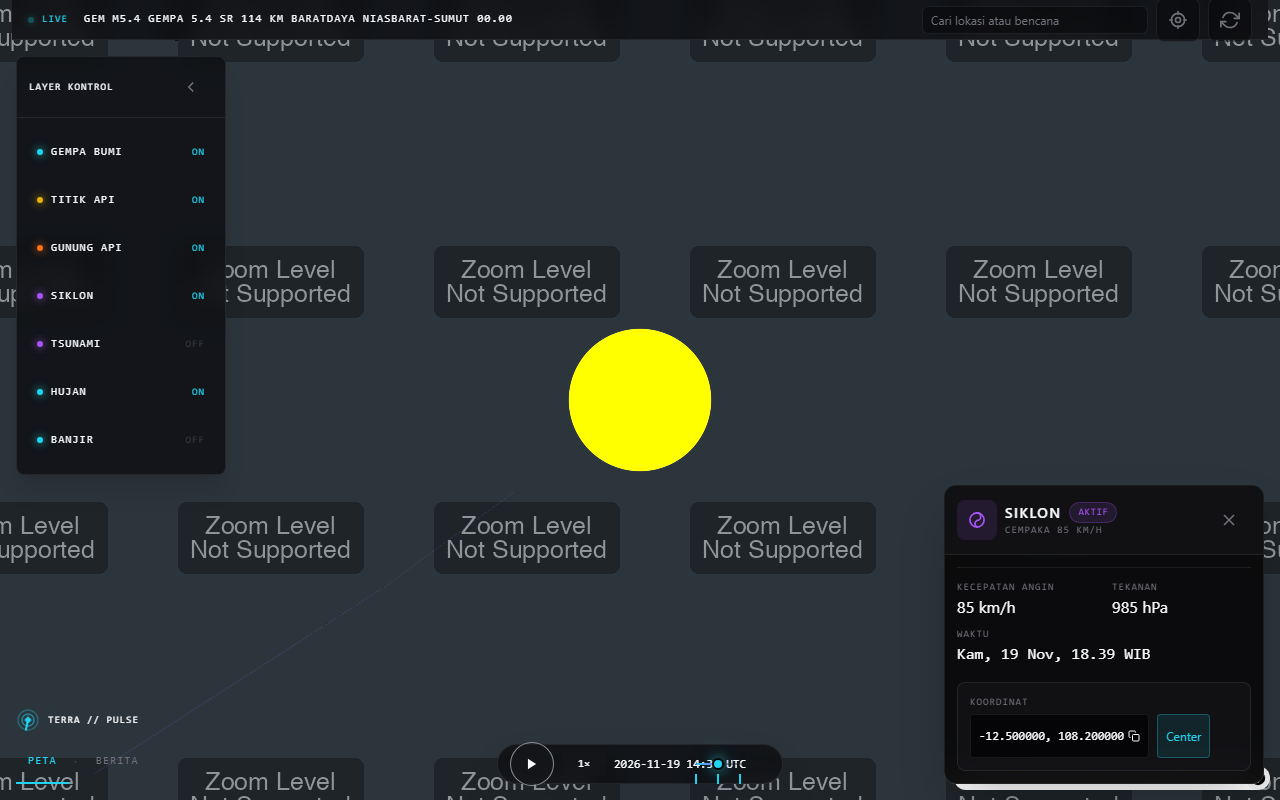
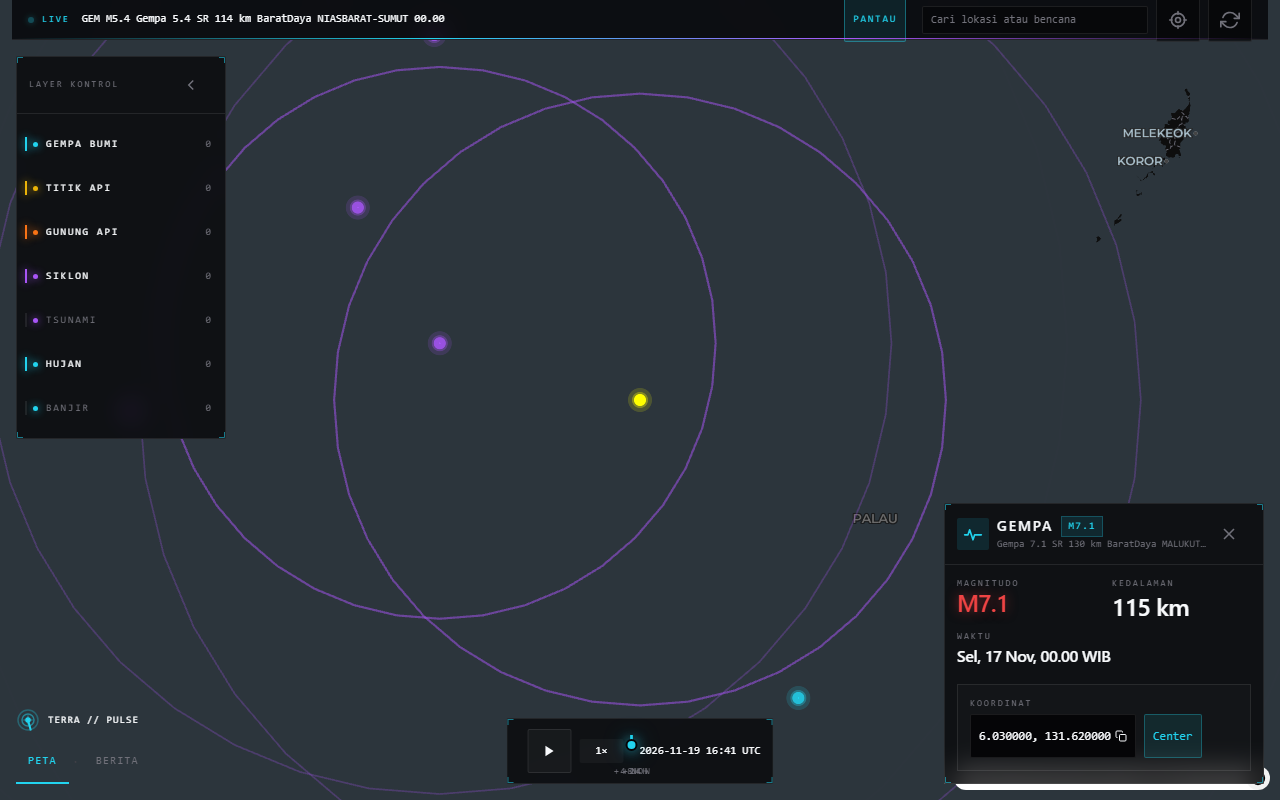
docs(design): refresh HUD audit for hairline HUD, WebGL animation and lock-on

diff --git a/docs/design/RESPONSIVE-AUDIT.md b/docs/design/RESPONSIVE-AUDIT.md
@@ -13,11 +13,12 @@ node scripts/audit-hud.mjs --shots  # screenshots only
 Viewports: 375x812, 768x1024, 1024x768, 1280x800, 1440x900 (mobile breakpoint = `width < 768`,
 matching `useDeviceCapability`). Console messages are truncated to their first line by design;
 measured values below are copied verbatim from the run that produced the three screenshots.
+Measurement date: **2026-11-19**, at `55e302b`.
 
 **Overall result: all PASS.** C6, C7, C8 and BERITA reachability pass at all five viewports; the map
 renders full-viewport everywhere; the EventCard opens everywhere; and a production load produces
-**0 console errors, 0 pageerrors and 0 failed requests** at every viewport. The only remaining
-console output is a deck.gl deprecation warning (§9).
+**0 console errors, 0 pageerrors and 0 failed requests** at every viewport. No console output remains
+from the app or its map libraries (§9).
 
 ---
 
@@ -25,10 +26,10 @@ console output is a deck.gl deprecation warning (§9).
 
 | Gate | Command | Result |
 | --- | --- | --- |
-| Build | `npm run build` | **PASS** — exit 0, 71.6s, page 459 kB / 564 kB First Load |
-| Unit tests | `npm run test:unit` | **PASS** — 4 files, 14 tests (vitest 3.2.7), 8.76s |
+| Build | `npm run build` | **PASS** — exit 0, 89s, `✓ Compiled successfully`, 9/9 static pages, page 461 kB / 566 kB First Load, 105 kB shared |
+| Unit tests | `npm run test:unit` | **PASS** — 4 files, 14 tests (vitest 3.2.7), 11.7s |
 | Types | `npx tsc --noEmit` | **PASS** — exit 0 |
-| E2E | `npx playwright test tests/app.spec.ts` | **PASS** — 6 passed, 3 skipped (44.9s), exit 0 |
+| E2E | `npx playwright test tests/app.spec.ts` | **PASS** — 6 passed, 3 skipped (49.1s), exit 0 |
 
 The E2E gate ran against the same production server on port 3001 (`playwright.config.ts`
 `baseURL: http://localhost:3001`, `webServer: undefined`).
@@ -39,19 +40,19 @@ The E2E gate ran against the same production server on port 3001 (`playwright.co
 
 | viewport | lockup | timeline pill | layer control | telemetry strip | mobile news toggle | news panel (BERITA) |
 | --- | --- | --- | --- | --- | --- | --- |
-| 375x812 | not rendered (hidden <768) | 44.5,772 286x40 | 16,56 112x44 (trigger) | 12,0 351x44 | 270,56 89x44 | 0,243.6 375x568.4 |
-| 768x1024 | 16,932 134.6x76 | 241,968 286x40 | 16,56 210x419 | 12,0 744x40 | n/a (`md:hidden`) | 432,316 320x692 |
-| 1024x768 | 16,676 134.6x76 | 369,712 286x40 | 16,56 210x419 | 12,0 1000x40 | n/a (`md:hidden`) | 688,214.4 320x537.6 |
-| 1280x800 | 16,708 134.6x76 | 497,744 286x40 | 16,56 210x419 | 12,0 1256x40 | n/a (`md:hidden`) | 944,224 320x560 |
-| 1440x900 | 16,808 134.6x76 | 577,844 286x40 | 16,56 210x419 | 32,0 1376x40 | n/a (`md:hidden`) | 1104,254 320x630 |
+| 375x812 | not rendered (hidden <768) | 54,746 267x66 | 16,56 100x44 (trigger) | 12,0 351x44 | 270,56 89x44 | 0,243.6 375x568.4 |
+| 768x1024 | 16,932 134.6x76 | 250.5,942 267x66 | 16,56 210x383 | 12,0 744x40 | n/a (`md:hidden`) | 432,332.3 320x675.8 |
+| 1024x768 | 16,676 134.6x76 | 378.5,686 267x66 | 16,56 210x383 | 12,0 1000x40 | n/a (`md:hidden`) | 688,214.4 320x537.6 |
+| 1280x800 | 16,708 134.6x76 | 506.5,718 267x66 | 16,56 210x383 | 12,0 1256x40 | n/a (`md:hidden`) | 944,224 320x560 |
+| 1440x900 | 16,808 134.6x76 | 586.5,818 267x66 | 16,56 210x383 | 32,0 1376x40 | n/a (`md:hidden`) | 1104,254 320x630 |
 
-Observations: the timeline pill is always 286x40 and horizontally centred (44.5/241/369/497/577 at the
-five viewports, i.e. `(vw-286)/2`), sitting 0px above the viewport bottom; the layer panel is a fixed
-210x419 side panel at `top-14 left-4` on desktop and a 112x44 trigger on mobile; the telemetry strip
-spans the viewport width minus a 12px gutter (32px at 1440) and is 40–44px tall. The EventCard clears
-the pill at every viewport: at 375/768/1024 its bottom edge (756/956/700) sits above the pill top
-(772/968/712); at 1280/1440 it is anchored to the right (`bottom-[68px] xl:bottom-4`) and its
-x-range (944–1264 / 1104–1424) does not intersect the centred pill (497–783 / 577–863).
+Observations: the timeline pill is **267x66** — the 40px track plus a separate marker-label row above it
+(`py-1.5` shell, label absolutely positioned at `bottom-full`), not the older 286x40 single row. It is
+horizontally centred at 54/250.5/378.5/506.5/586.5, i.e. `(vw-267)/2`, with tops at
+746/942/686/718/818. The layer panel is a fixed 210x383 side panel at `top-14 left-4` on desktop and a
+100x44 trigger on mobile. The telemetry strip spans the viewport width minus a 12px gutter (32px at
+1440) and is 40–44px tall; it now carries the PANTAU lock-on button and a 1px alert pulse line, and the
+LIVE wordmark is hidden below `md`. The EventCard clears the pill at every viewport (§4).
 
 ## 3. Map sizing
 
@@ -64,10 +65,10 @@ x-range (944–1264 / 1104–1424) does not intersect the centred pill (497–78
 | 1440x900 | 0,0 1440x900 | 0,0 1440x900 |
 
 Canvas == container == viewport at every size (previously `0,0 <vw>x300` with a 0-height container).
-An independent canvas probe at 1280x800 reads `buffer [1280,800]`, 12913 bright pixels (radar raster
-and markers), and the marker clustering used to open cards finds its largest cluster at n=167, CSS
-`325,724`. The rain-radar layer paints: 40 of 40 `tilecache.rainviewer.com/v2/radar/<frame>/256/{z}/{x}/{y}/2/1_1.png`
-requests return 200, 0 non-200. The map renders, tiles load, and deck.gl markers are pickable.
+An independent canvas probe at 1280x800 reads `buffer [1280,800]`, and the marker clustering used to
+open cards finds its largest cluster at n=107, CSS `444,185`. The rain-radar layer paints: 40 of 40
+`tilecache.rainviewer.com/v2/radar/<frame>/256/{z}/{x}/{y}/2/1_1.png` requests return 200, 0 non-200.
+The map renders, tiles load, and deck.gl markers are pickable.
 
 ## 4. Overlap assertions (spec C8)
 
@@ -77,15 +78,20 @@ Method: rectangle-intersection of the measured boxes (`area > 0.5px²` counts as
 | --- | --- | --- | --- | --- | --- |
 | lockup vs timeline | N/A | PASS | PASS | PASS | PASS |
 | lockup vs EventCard | N/A | PASS | PASS | PASS | PASS |
-| timeline vs EventCard | PASS | PASS | PASS | PASS | PASS |
+| timeline vs EventCard | PASS (14px clear) | PASS (6px clear) | PASS (6px clear) | PASS (x-disjoint) | PASS (x-disjoint) |
 | NewsPanel vs timeline (live BERITA rects) | N/A | N/A | N/A | N/A | N/A |
-| NewsPanel vs timeline pill using the *PETA-mode* rect (cross-mode reference) | 11440px² | 3800px² | PASS | PASS | PASS |
+| NewsPanel vs timeline pill using the *PETA-mode* rect (cross-mode reference, not reachable live) | 17622px² | 5643px² | PASS | PASS | PASS |
 
-**No live overlap at any viewport.** `timeline vs EventCard` now clears everywhere: at 375/768/1024 the
-card's bottom edge is above the pill's top edge (756 vs 772, 956 vs 968, 700 vs 712), and at
-1280/1440 the card is right-anchored (`bottom-[68px] xl:bottom-4`) with an x-range that misses the
-centred pill entirely. Before the HUD fix (`46ceaee`) the 768x1024 pair intersected by 3800px² and the
-pill painted over the card's bottom 40px, intercepting clicks; that no longer reproduces.
+**0 live overlaps at all five viewports.** `timeline vs EventCard` clears everywhere: the card's bottom
+edge sits above the pill's top edge by 14px at 375x812 (732 vs 746), 6px at 768x1024 (936 vs 942) and
+6px at 1024x768 (680 vs 686); at 1280/1440 the card is right-anchored and its x-range misses the
+centred pill entirely. The anchors that produce this are `bottom-[calc(env(safe-area-inset-bottom)+80px)]`
+on mobile, `bottom-[88px]` on desktop and `xl:bottom-4` at 1280 and up.
+
+Before `55e302b` the retuned pill (`267x66`, replacing the older `286x40`) intersected the card by
+2670px² at 375x812 (10px) and 1197px² at 768x1024 (14px), and `elementFromPoint` at the overlap
+returned the timeline bar, so the pill painted over the card's bottom edge and swallowed clicks there.
+Both pairs now measure 0.
 
 **Cross-mode note.** The `NewsPanel vs timeline (PETA rect)` row compares a rect measured in BERITA
 mode with one measured in PETA mode. It cannot occur live: in BERITA mode `#panel-peta` carries
@@ -108,10 +114,12 @@ Map-library controls are excluded by design.
 | 1280x800 | 0 |
 | 1440x900 | 0 |
 
-16 visible interactive elements at 1280x800, all ≥44px in both axes: telemetry ticker `826x44`,
-timeline `<select>` and buttons `44x44`, layer-panel collapse `44x44`, layer rows `184x44`, brand
-buttons `52.6x44` / `66.9x44`. The previously reported 20.5px ticker, 28px search input and 21x20.5
-speed select no longer reproduce — the `tp-touch` sizing is applied to the interactive element itself.
+16 visible interactive elements at 1280x800, all ≥44px in both axes: telemetry ticker 44px tall
+(`min-h-[44px]`), timeline `<select>` and buttons `44x44`, layer-panel collapse `44x44`, layer rows
+`184x44`, brand buttons `52.6x44` / `66.9x44`. The ticker now also carries `min-w-[44px]`, so the
+PANTAU button can no longer squeeze it: it measured 27.5x44 at 375x812 before `55e302b` and 44x44
+after. The previously reported 20.5px ticker, 28px search input and 21x20.5 speed select still do not
+reproduce — the `tp-touch` sizing is applied to the interactive element itself.
 
 ## 6. Numeric readouts (spec C6) — **PASS**
 
@@ -123,30 +131,31 @@ speed select no longer reproduce — the `tp-touch` sizing is applied to the int
 | timeline clock (`.tp-value`) | ok | ok | ok | ok | ok |
 | timeline speed `<select>` | ok | ok | ok | ok | ok |
 | news panel relative time | ok | ok | ok | ok | ok |
-| EventCard MAGNITUDO | ok | n/a (not in this card) | n/a | n/a | n/a |
-| EventCard KEDALAMAN | ok | n/a | n/a | n/a | n/a |
+| EventCard MAGNITUDO | ok | ok | ok | ok | ok |
+| EventCard KEDALAMAN | ok | ok | ok | ok | ok |
 | EventCard WAKTU | ok | ok | ok | ok | ok |
 | EventCard KOORDINAT value | ok | ok | ok | ok | ok |
 | EventCard coord copy button | ok | ok | ok | ok | ok |
 
-0 readouts failing. The earlier hypothesis that the KOORDINAT value lacks `tabular-nums` is **wrong**
-for this build: the card shell carries `tabular-nums` and both the value and the copy button compute
-`tabular-nums`. `n/a` rows are conditional card sections (magnitude/depth only render for earthquake
-features; the 768+ cards opened on a cyclone feature).
+0 readouts failing — 9 readouts × 5 viewports, all `ok`. The earlier hypothesis that the KOORDINAT
+value lacks `tabular-nums` is **wrong** for this build: the card shell carries `tabular-nums` and both
+the value and the copy button compute `tabular-nums`. MAGNITUDO/KEDALAMAN are conditional sections
+(earthquake features only); this run opened an earthquake card at every viewport, so all nine readouts
+were present everywhere.
 
 ## 7. EventCard
 
 | viewport | opened | how | rect |
 | --- | --- | --- | --- |
-| 375x812 | yes | marker pixel scan (208,403 n=33) | 0,616 375x140 |
-| 768x1024 | yes | marker pixel scan (69,836 n=167) | 432,657 320x299 |
-| 1024x768 | yes | marker pixel scan (197,708 n=167) | 688,401 320x299 |
-| 1280x800 | yes | marker pixel scan (325,724 n=167) | 944,485 320x299 |
-| 1440x900 | yes | marker pixel scan (405,774 n=167) | 1104,585 320x299 |
+| 375x812 | yes | marker pixel scan (269,61 n=50) | 0,592 375x140 |
+| 768x1024 | yes | marker pixel scan (731,238 n=63) | 432,654.5 320x281.5 |
+| 1024x768 | yes | marker pixel scan (914,45 n=62) | 688,398.5 320x281.5 |
+| 1280x800 | yes | marker pixel scan (1027,90 n=74) | 944,502.5 320x281.5 |
+| 1440x900 | yes | marker pixel scan (1110,141 n=67) | 1104,602.5 320x281.5 |
 
-Opened at all five viewports on the first candidate. Content at 1280x800: title `SIKLON` / `AKTIF` /
-`Cempaka 85 km/h`, then `KECEPATAN ANGIN 85 km/h`, `TEKANAN 985 hPa`,
-`WAKTU Kam, 19 Nov, 17.41 WIB`, `KOORDINAT -1.471529, 118.168`.
+Opened at all five viewports. Content at 1280x800: title `GEMPA M5.5` / `Gempa 5.5 SR 169 km
+BaratLaut TANIMBAR`, then `MAGNITUDO M5.5`, `KEDALAMAN 130 km`, `WAKTU Sen, 02 Nov, 00.00 WIB`,
+`KOORDINAT 7.080000, …`.
 
 The harness finds markers by scanning the map canvas for bright pixels and clustering them
 (`markerCandidates`), then clicking each centroid until `[aria-label="Tutup detail"]` has a non-zero
@@ -157,11 +166,11 @@ Web-Mercator projection, which assumed a fixed initial viewport and broke on any
 
 | viewport | toggle clicked | panel rect | close button ≥44 | rows (first 3) | `#panel-peta` while BERITA | timeline while BERITA | back to PETA |
 | --- | --- | --- | --- | --- | --- | --- | --- |
-| 375x812 | yes | 0,243.6 375x568.4 | yes | 329x125 ×3 | `hidden` / `display:none` | not rendered | true |
-| 768x1024 | yes | 432,316 320x692 | yes | 274x125 ×3 | `hidden` / `display:none` | not rendered | true |
-| 1024x768 | yes | 688,214.4 320x537.6 | yes | 274x125 ×3 | `hidden` / `display:none` | not rendered | true |
-| 1280x800 | yes | 944,224 320x560 | yes | 274x125 ×3 | `hidden` / `display:none` | not rendered | true |
-| 1440x900 | yes | 1104,254 320x630 | yes | 274x125 ×3 | `hidden` / `display:none` | not rendered | true |
+| 375x812 | yes | 0,243.6 375x568.4 | yes | 329x122 ×3 | `hidden` / `display:none` | not rendered | true |
+| 768x1024 | yes | 432,332.3 320x675.8 | yes | 274x122 ×3 | `hidden` / `display:none` | not rendered | true |
+| 1024x768 | yes | 688,214.4 320x537.6 | yes | 274x122 ×3 | `hidden` / `display:none` | not rendered | true |
+| 1280x800 | yes | 944,224 320x560 | yes | 274x122 ×3 | `hidden` / `display:none` | not rendered | true |
+| 1440x900 | yes | 1104,254 320x630 | yes | 274x122 ×3 | `hidden` / `display:none` | not rendered | true |
 
 PASS at all five viewports: the toggle opens the panel, rows and the close button are ≥44px, PETA is
 hidden while BERITA is open, and closing returns to PETA.
@@ -182,46 +191,77 @@ failures**. The three problems of the previous pass are gone:
   `map.queryRenderedFeatures(e.point, { layers: [...] })` call is now guarded against layers that are
   not yet in the style.
 
-The only remaining console output is one deck.gl deprecation **warning** (not an error):
-`deck: 'earthquake-crosshairs: rounded' is deprecated and will be removed in a later version. Use
-'jointRounded/capRounded' instead` — `src/components/map/DisasterLayers.tsx:212` passes `rounded: true`
-to a `PathLayer`; migrate to `capRounded`/`jointRounded` when convenient. Chromium also logs its own
-`GPU stall due to ReadPixels` performance warnings under headless screenshots; those come from the
-browser, not the app.
+**No console output remains from the app or its map libraries.** The deck.gl
+`earthquake-crosshairs: rounded` deprecation warning is gone: the crosshair and path layers now pass
+`capRounded: true, jointRounded: true` instead of `rounded: true`
+(`src/components/map/DisasterLayers.tsx:213,441,621`). Chromium still logs its own
+`GPU stall due to ReadPixels` performance warnings under headless screenshot capture; those come from
+the browser, not the app, and do not appear in a normal load.
 
-## 10. Screenshots
+## 10. WebGL animation
+
+Map animation runs outside React: `MapCanvas` drives one RAF loop that calls `applyLayers()` →
+`overlay.setProps()`, so no component re-renders per frame. The loop is throttled to ~24fps
+(`if (now - last < 41) return`), is cancelled on `visibilitychange` while `document.hidden` and
+restarted on return, and under `prefers-reduced-motion: reduce` (`useDeviceCapability` reads
+`matchMedia('(prefers-reduced-motion: reduce)')`) it early-returns after a single `applyLayers()` with
+every layer frozen at `time = 0` (`DisasterLayers` `frozen` pins opacity; `WindParticleLayer` takes a
+static path).
+
+Four animated phenomena: seismic shockwave rings (magnitude ≥ 6), a cyclogenesis vortex with a dashed
+pulsing track, thermal hotspot flicker, and a hydrological pulse gated on `pressureHpa < 1005`.
+
+Evidence — `readPixels` on `.maplibregl-canvas` at 1280x800, snapshots kept in-page, per-channel diff
+threshold `|ΔR|+|ΔG|+|ΔB| > 12`, 9s settle before sampling:
+
+| assertion | window | result |
+| --- | --- | --- |
+| animating | 1200ms | **25514/1024000 px changed (2.492%)**, max Δ 330 |
+| paused (`document.hidden`) | 1200ms | **0 px changed**, max Δ 0 |
+| resumed | 1200ms | 11981 px changed (1.17%) |
+| reduced motion | 1200ms | **0 px changed**, 13693 bright px (not blank) |
+
+The paused and reduced-motion canvases are bit-identical to their own previous frame, so the gates are
+real rather than a frame that happens to look static. Sampling has to wait for tile and radar fades to
+settle; at a 3s settle a "paused" window still shows pixel change that is not animation.
+
+## 11. Screenshots
 
 Pixel statistics are measured from the written PNG (`canvas` devDependency, luma > 8 = non-black,
 luma > 40 = bright):
 
 | file | viewport | state | non-black | bright | distinct colours | console / page errors |
 | --- | --- | --- | --- | --- | --- | --- |
-| `screenshots/stitch-desktop.png` | 1280x800 | PETA mode, full HUD | 1023819/1024000 (100%) | 739990 | 512 (cap) | 0 / 0 |
-| `screenshots/stitch-mobile.png` | 390x844, touch | BERITA drawer open (`open=true`) | 329160/329160 (100%) | 100667 | 512 (cap) | 0 / 0 |
-| `screenshots/stitch-desktop-eventcard.png` | 1280x800 | EventCard open (`open=true`) | 1017278/1024000 (99.3%) | 662091 | 385 | 0 / 0 |
+| `screenshots/final-hud-desktop.png` | 1280x800 | PETA mode, full HUD | 1011107/1024000 (98.7%) | 736744 | 737 | 0 / 0 |
+| `screenshots/final-hud-event.png` | 1280x800 | EventCard open (`944,503 320x282`), PANTAU reticle active | 1017811/1024000 (99.4%) | 805774 | 535 | 0 / 0 |
 
-None is blank and none has a console error or pageerror. The 1024-pixel shortfall on the desktop shots
-is the rounded viewport corner transparency; the mobile shot is fully opaque. Existing `*-final.png` /
-`*-v2.png` were not touched.
+Neither is blank and neither has a console error, pageerror or non-2xx response. The PANTAU reticle was
+proven by pixel diff rather than by an attribute (the button has no `aria-pressed`): with the timeline
+clock paused, clicking PANTAU changed **53310 px** of the canvas, against **0** control noise over the
+following 900ms. These two files supersede `stitch-desktop.png` and `stitch-desktop-eventcard.png`;
+`scripts/audit-hud.mjs` still rewrites the `stitch-*` set (including `stitch-mobile.png`, 390x844 BERITA
+drawer, 95.8% non-black, bright 105075).
 
-## 11. Findings
+## 12. Findings
 
 **No open findings.** Every spec assertion passes, gates pass, and a production load is error-free.
 
-1. **PASS (C8)** — no live overlap at any viewport. The 768x1024 EventCard/timeline intersection
-   (3800px², pill painting over the card's bottom 40px) is fixed by the card's
-   `bottom-[68px] xl:bottom-4` desktop anchor and the `+56px` mobile offset (§4).
+1. **PASS (C8)** — 0 live overlap at all five viewports: 14px clearance at 375x812, 6px at 768x1024 and
+   1024x768, x-disjoint at 1280/1440, from the mobile
+   `bottom-[calc(env(safe-area-inset-bottom)+80px)]` / desktop `bottom-[88px]` / `xl:bottom-4` anchors (§4).
 2. **PASS (runtime)** — 0 console errors, 0 pageerrors, 0 failed requests at all five viewports.
    Hydration `#418` is gone (mount gate in `TimelineBar`); the rain-radar 404 storm is gone (tile
    template `…/256/{z}/{x}/{y}/2/1_1.png`, newest frame first — 40/40 responses 200, raster paints);
-   the `tsunami-rings` query is guarded (§9). The only console output left is the deck.gl
-   `earthquake-crosshairs: rounded` deprecation warning, noted for a later cleanup.
-3. **Resolved (C7)** — 0 touch-target violations across 5 viewports; the 14 violations of the
-   pre-HUD-pass build (ticker 20.5px, search input 28px, speed select 21x20.5) no longer reproduce (§5).
-4. **Resolved (C6)** — 0 tabular-nums readouts failing, including the EventCard KOORDINAT value and
-   its copy button (§6).
-5. **Resolved (BERITA)** — reachable at 375x812 and every other viewport, with PETA hidden while open (§8).
-6. **Resolved (map lifecycle crash, history)** — commit `112a6a5` *"fix(map): stop map lifecycle crash
+   the `tsunami-rings` query is guarded; and the deck.gl `rounded` deprecation warning is gone (§9).
+3. **PASS (C7)** — 0 touch-target violations across 5 viewports. The retune briefly regressed this: the
+   ticker measured 27.5x44 at 375x812 once PANTAU appeared in the row. `55e302b` gives it
+   `min-w-[44px]` and hides the LIVE wordmark below `md`, and the ticker now measures 44x44 there (§5).
+4. **PASS (C6)** — 0 tabular-nums readouts failing, all 9 readouts `ok` at all 5 viewports, including the
+   EventCard KOORDINAT value and its copy button (§6).
+5. **PASS (BERITA)** — reachable at 375x812 and every other viewport, with PETA hidden while open (§8).
+6. **PASS (WebGL animation)** — animating, paused, resumed and reduced-motion behaviour all verified by
+   `readPixels` diff; paused and reduced-motion are bit-identical over a 1200ms window (§10).
+7. **Resolved (map lifecycle crash, history)** — commit `112a6a5` *"fix(map): stop map lifecycle crash
    and camera corruption"* (`112a6a53f40737210d45debfe2e01b93d938e450`, plus the LF-normalisation
    commit `33d1630`), touching `src/components/map/MapBase.tsx` and
    `src/components/map/MapCanvas.tsx`, removed the StrictMode teardown race, the camera corruption and
@@ -230,8 +270,17 @@ is the rounded viewport corner transparency; the mobile shot is fully opaque. Ex
    `Application error: a client-side exception has occurred` page, and an EventCard that could never
    open (`opened=false via=not reached` at all five viewports). Post-fix the canvas is full-viewport at
    every size and the card opens at every size (§3, §7).
-7. **Fix lineage** — `112a6a5` map lifecycle / camera / overlay / picking; `47be0ea` *"fix(map): repair
+8. **Fix lineage** — `112a6a5` map lifecycle / camera / overlay / picking; `47be0ea` *"fix(map): repair
    RainViewer tile URL and guard tsunami-rings query"*; `46ceaee` *"feat(hud): tactical HUD pass"*
-   (timeline mount gate, EventCard bottom anchor, touch sizing, `tabular-nums`, BERITA reachability).
-8. **Repo gates** — build, unit (4 files / 14 tests), `tsc --noEmit` and Playwright E2E (6 passed,
+   (timeline mount gate, EventCard bottom anchor, touch sizing, `tabular-nums`, BERITA reachability);
+   `754ec51` *"feat(map): animate seismic, cyclone, thermal and hydrological phenomena"* and `e20b49a`
+   *"fix(map): restore data on the inner earthquake glow layer"* (animated phenomena, PANTAU reticle
+   lock-on, `maxzoom: 6`, cyclone alpha 35 / `radiusMaxPixels: 34`, `capRounded`/`jointRounded`);
+   `2325247` *"feat(hud): hairline HUD shell, retuned timeline, alert lock-on"* (the 267x66 pill,
+   PANTAU button, alert pulse line, LIVE wordmark hidden below `md`); `55e302b` *"fix(hud): clear C7
+   ticker width and C8 timeline overlap"*.
+   The `2325247` retune briefly regressed two assertions: C7 (ticker squeezed to 27.5x44 at 375x812 by
+   the new PANTAU button) and C8 (the taller pill overlapped the EventCard by 10px at 375x812 and 14px
+   at 768x1024, intercepting clicks). `55e302b` fixes both, and this pass re-measures them at 0.
+9. **Repo gates** — build, unit (4 files / 14 tests), `tsc --noEmit` and Playwright E2E (6 passed,
    3 skipped) all pass (§1).
